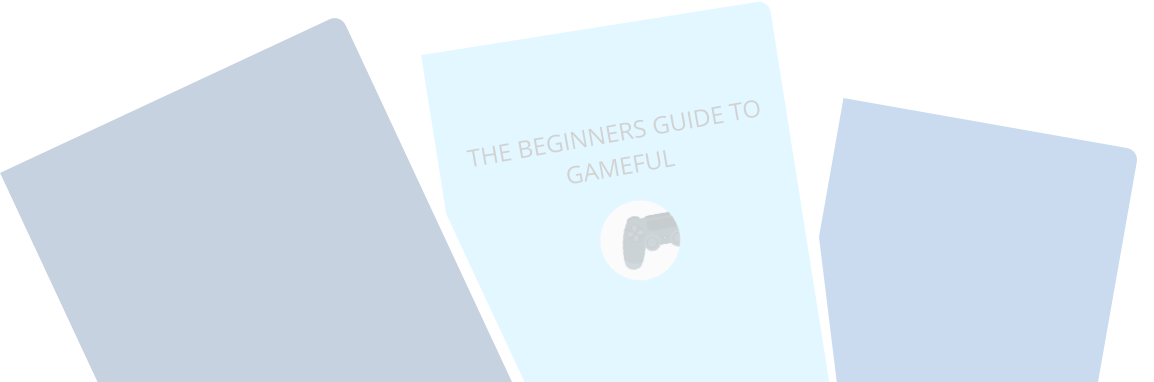
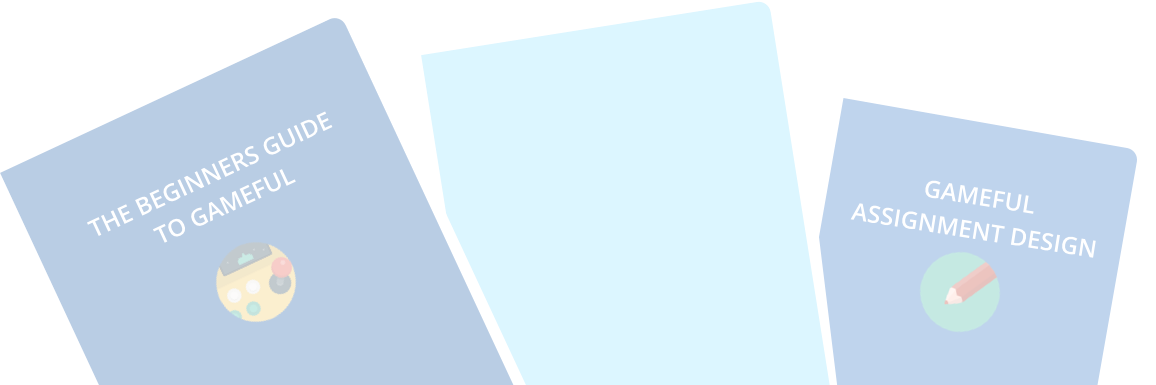
swapped what is gameful panel background image, replaced scss for tiles with table

diff --git a/_sass/pages/what-is-gameful.scss b/_sass/pages/what-is-gameful.scss
@@ -1,6 +1,6 @@
 .inline-img {
-  width: 260px;
   margin: 1em;
+  width: 260px;
 }
 
 .right {
@@ -18,8 +18,8 @@
 }
 
 .medium {
-  width: 300px;
   margin-top: .5em;
+  width: 300px;
 }
 
 .large {
@@ -30,20 +30,20 @@
   margin-top: 1.5em;
 }
 
-blockquote p {
-  color: $color-blue-3;
-  font-style: italic;
-  font-weight: 500;
-  font-size: 22px;
-  line-height: 1.6;
-  text-align: center;
-  background-image: url('../img/blockquote.png');
-  background-size: contain;
-  background-position: center;
-  background-repeat: no-repeat;
-}
-
 blockquote {
   margin: 0 auto;
   width: 400px;
+
+  p {
+    background-image: url('../img/blockquote.png');
+    background-position: center;
+    background-repeat: no-repeat;
+    background-size: contain;
+    color: $color-blue-3;
+    font-size: 22px;
+    font-style: italic;
+    font-weight: 500;
+    line-height: 1.6;
+    text-align: center;
+    }
 }

diff --git a/_sass/pages/getting-started.scss b/_sass/pages/getting-started.scss
@@ -3,16 +3,15 @@
   @include breakpoint($mq_small) {
     display: block;
   }
-}
-
-.gs-menu ul {
-  display: none;
+  ul {
+    display: none;
+  }
 }
 
 select {
-  width: 100%;
+  border: 0;
   height: 40px;
-  border: 0px;
+  width: 100%;
 }
 
 .custom-counter {
@@ -26,8 +25,8 @@ select {
   list-style-type: decimal;
   -webkit-margin-before: 1em;
   -webkit-margin-after: 1em;
-  -webkit-margin-start: 0px;
-  -webkit-margin-end: 0px;
+  -webkit-margin-start: 0;
+  -webkit-margin-end: 0;
   -webkit-padding-start: 40px;
 }
 
@@ -51,21 +50,4 @@ select {
   color: $color-grey-5;
   border: 1px solid $color-grey-5;
   font-weight: bold;
-}
-
-table {
-  border-collapse: collapse;
-  width: 30%;
-}
-th, td {
-  padding: 0.2rem;
-  text-align: left;
-  border: 1px solid #ccc;
-  font-size: .75em;
-}
-
-.clearfix:after {
-  content: "";
-  display: table;
-  clear: both;
 }

diff --git a/_sass/pages/homepage.scss b/_sass/pages/homepage.scss
@@ -18,11 +18,11 @@
 
 .what-is-gameful-panel {
   background-color: darken(#0a4a81, 5%);
-  height: 200px;
   background-image: url('../img/books2-graphic.png');
   background-position: bottom;
   background-repeat: no-repeat;
   background-size: contain;
+  height: 200px;
 }
 
 .faqs-panel {
@@ -76,6 +76,7 @@
       left: 20%;
       width: 50%;
 }
+
     @include breakpoint($mq_extrasmall) {
       height: auto;
       left: 20%;

diff --git a/_sass/components/_table.scss b/_sass/components/_table.scss
@@ -1,0 +1,18 @@
+table {
+  border-collapse: collapse;
+  width: 30%;
+}
+
+th,
+td {
+  border: 1px solid $color-grey-5;
+  font-size: .75em;
+  padding: .2rem;
+  text-align: left;
+}
+
+.clearfix:after {
+  clear: both;
+  content: '';
+  display: table;
+}

diff --git a/css/style.scss b/css/style.scss
@@ -29,7 +29,7 @@
 @import "components/flexbox";
 @import "components/logo";
 @import "components/button";
-@import "components/tile";
+@import "components/table";
 @import "components/breadcrumb";
 @import "components/chip";
 
